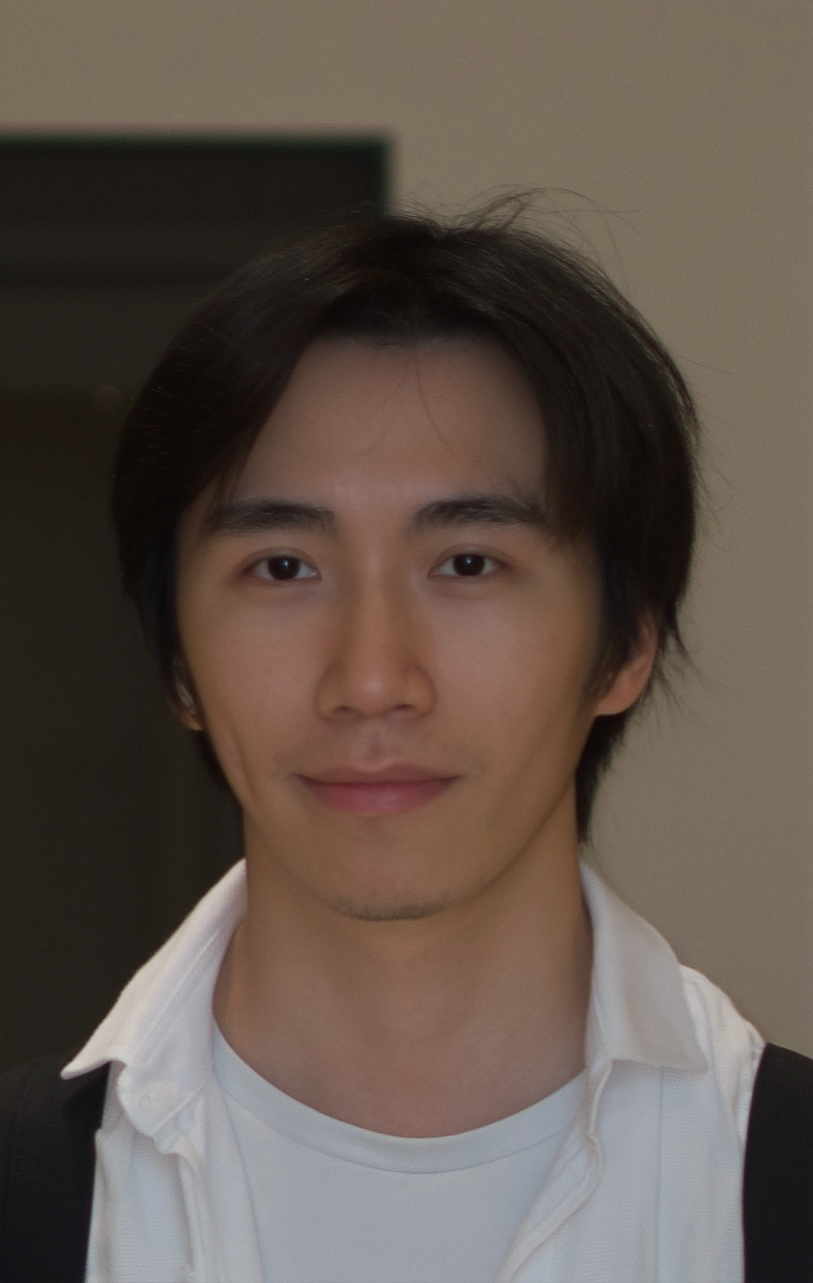
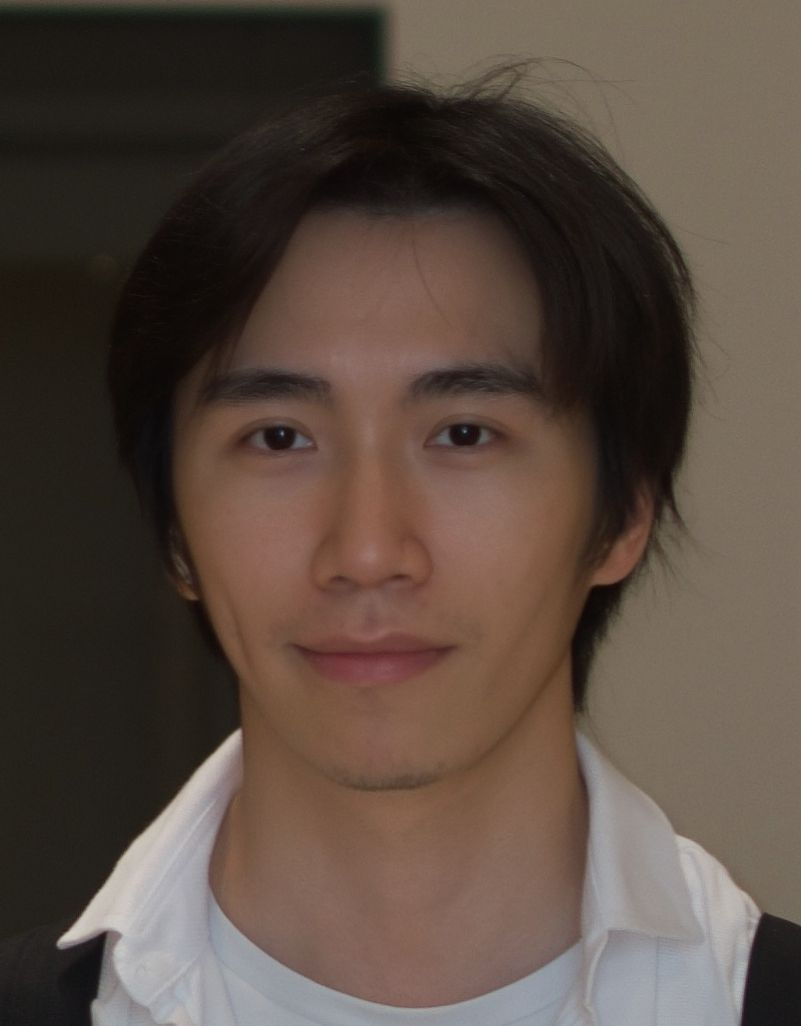
initial commit

diff --git a/index_new.html b/index_new.html
@@ -5,6 +5,7 @@
   <meta name="author" content="Jinhui Yi">
   <meta name="viewport" content="width=device-width, initial-scale=1">
   <link rel="stylesheet" type="text/css" href="stylesheet.css">
+  <style> a { color:#1a3d7c !important; } </style>
   <link rel="icon" type="image/jpeg" href="assets/images/avatar.jpg">
     <!-- <style>
     body, * {
@@ -25,9 +26,11 @@
               <p style="text-align:center">
                 <name>Jinhui Yi</name>
               </p>
-			<p>I am a PhD candidate in the Computer Vision Group at the University of Bonn, supervised by <a href="https://pages.iai.uni-bonn.de/gall_juergen/">Prof. Dr. Juergen Gall</a>. My research explores multimodal video understanding, long-term action anticipation, unsupervised domain adaptation, and applications of computer vision to plant phenotyping.
+			<p>
+			  I am a PhD candidate in the Computer Vision Group at the University of Bonn, supervised by <a href="https://pages.iai.uni-bonn.de/gall_juergen/">Prof. Dr. Juergen Gall</a>. My research explores multimodal video understanding, long-term action anticipation, unsupervised domain adaptation, and applications of computer vision to plant phenotyping.
 			</p>
-			<p>Previously, I completed my master's degree at the University of Hanover, supervised by <a href="https://www.tnt.uni-hannover.de/staff/rosenhahn/">Prof. Dr. Bodo Rosenhahn</a>.
+			<p>
+              Previously, I completed my master's degree at the University of Hanover, supervised by <a href="https://www.tnt.uni-hannover.de/staff/rosenhahn/">Prof. Dr. Bodo Rosenhahn</a>.
 			</p>
 			<div style="width: 100%; height: 1px; background: linear-gradient(to right, transparent, #ccc 20%, #ccc 80%, transparent); margin: 10px 0;"></div>
 
@@ -94,7 +97,7 @@
           </tr>
         </tbody></table>
         
-		<table id="publications" class="publications-table page-section" style="width:100%;border:0px;border-spacing:0 16px;border-collapse:separate;margin-right:auto;margin-left:auto;">
+		<table id="publications" class="publications-table page-section" style="width:100%;border:0px;border-spacing:0 32px;border-collapse:separate;margin-right:auto;margin-left:auto;">
           <heading style="text-decoration:none;">Publications</heading>
     <br>
    <p>* Equal contribution. </p>
@@ -164,8 +167,8 @@
               border-right: 1px solid rgba(0, 0, 0, 0.14);
               border-radius: 0 8px 8px 0;
             }
-            .publications-table tr[data-tags][style*="lightblue"] > td {
-              background: lightblue;
+            .publications-table tr[data-tags][style*="lightyellow"] > td {
+              background: lightyellow;
             }
 
             /* 自定义复制提示框样式 */
@@ -259,7 +262,7 @@
 
           <tr data-tags="anticipation">
             <td>
-              <a href="#"><papertitle style="color:#1a1a1a; font-weight:700; text-decoration:none;">Open-Vocabulary Long Term Action Anticipation</papertitle></a>
+              <a href="#"><papertitle style="color:#1a3d7c; font-weight:700; text-decoration:none;">Open-Vocabulary Long Term Action Anticipation</papertitle></a>
               <br>
               <span>S. T. Wasim*, <strong style="font-weight:800;">J. Yi*</strong>, H. Suleman, A. Javed, Y. Luo, M. Naseer, J. Gall</span>
               <br>
@@ -268,9 +271,9 @@
             </td>
           </tr>
 
-          <tr data-tags="video-language">
+          <tr data-tags="other">
             <td>
-              <a href="#"><papertitle style="color:#1a1a1a; font-weight:700; text-decoration:none;">RedSage: A Cybersecurity Generalist LLM</papertitle></a>
+              <a href="#"><papertitle style="color:#1a3d7c; font-weight:700; text-decoration:none;">RedSage: A Cybersecurity Generalist LLM</papertitle></a>
               <br>
               <span>N. Suryanto, M. Naseer, P. Li, S. T. Wasim, <strong style="font-weight:800;">J. Yi</strong>, J. Gall, P. Ceravolo, E. Damiani</span>
               <br>
@@ -281,7 +284,7 @@
 
           <tr data-tags="reid">
             <td>
-              <a href="#"><papertitle style="color:#1a1a1a; font-weight:700; text-decoration:none;">CoRe-Net: Consensus-based Selection and Reciprocal Reliability for Multi-modal Object Re-Identification</papertitle></a>
+              <a href="#"><papertitle style="color:#1a3d7c; font-weight:700; text-decoration:none;">CoRe-Net: Consensus-based Selection and Reciprocal Reliability for Multi-modal Object Re-Identification</papertitle></a>
               <br>
               <span>X. Ma, <strong style="font-weight:800;">J. Yi</strong>, J. Gall</span>
               <br>
@@ -291,7 +294,7 @@
 
           <tr data-tags="reid">
             <td>
-              <a href="#"><papertitle style="color:#1a1a1a; font-weight:700; text-decoration:none;">EPIC: Semantic Inverse Prompting and Evidential Corroboration for Multi-modal Object Re-Identification</papertitle></a>
+              <a href="#"><papertitle style="color:#1a3d7c; font-weight:700; text-decoration:none;">EPIC: Semantic Inverse Prompting and Evidential Corroboration for Multi-modal Object Re-Identification</papertitle></a>
               <br>
               <span>X. Ma, Y. Wang, <strong style="font-weight:800;">J. Yi</strong>, J. Gall</span>
               <br>
@@ -301,7 +304,7 @@
 
           <tr data-tags="reid">
             <td>
-              <a href="#"><papertitle style="color:#1a1a1a; font-weight:700; text-decoration:none;">AdapDeFormer: Adaptive Deformable Attention Aggregation with Hierarchical Query Learning for Multi-modal Object Re-Identification</papertitle></a>
+              <a href="#"><papertitle style="color:#1a3d7c; font-weight:700; text-decoration:none;">AdapDeFormer: Adaptive Deformable Attention Aggregation with Hierarchical Query Learning for Multi-modal Object Re-Identification</papertitle></a>
               <br>
               <span>X. Ma, Y. Wang, <strong style="font-weight:800;">J. Yi</strong>, J. Gall</span>
               <br>
@@ -311,7 +314,7 @@
 
           <tr data-tags="reid">
             <td>
-              <a href="#"><papertitle style="color:#1a1a1a; font-weight:700; text-decoration:none;">SynergyReID: Bridging Modalities via Semantic Prototypes and Consistency Priors for Multi-modal Object Re-Identification</papertitle></a>
+              <a href="#"><papertitle style="color:#1a3d7c; font-weight:700; text-decoration:none;">SynergyReID: Bridging Modalities via Semantic Prototypes and Consistency Priors for Multi-modal Object Re-Identification</papertitle></a>
               <br>
               <span>X. Ma, Y. Wang, <strong style="font-weight:800;">J. Yi</strong>, R. Zhang, P. Zhang, J. Gall</span>
               <br>
@@ -319,9 +322,9 @@
             </td>
           </tr>
 
-          <tr style="background-color: lightblue;" data-tags="video-language">
+          <tr style="background-color: lightyellow;" data-tags="video-language">
             <td>
-              <a href="https://arxiv.org/abs/2412.18609"><papertitle style="color:#1a1a1a; font-weight:700; text-decoration:none;">Video-Panda: Parameter-efficient Alignment for Encoder-free Video-Language Models</papertitle></a>
+              <a href="https://arxiv.org/abs/2412.18609"><papertitle style="color:#1a3d7c; font-weight:700; text-decoration:none;">Video-Panda: Parameter-efficient Alignment for Encoder-free Video-Language Models</papertitle></a>
               <br>
               <span><strong style="font-weight:800;">J. Yi*</strong>, S. T. Wasim*, Y. Luo*, M. Naseer, J. Gall</span>
               <br>
@@ -334,7 +337,7 @@
 
           <tr data-tags="reid">
             <td>
-              <a href="#"><papertitle style="color:#1a1a1a; font-weight:700; text-decoration:none;">PeT-KeyStAtion: Parameter-efficient Transformer with Keypoint-guided Spatial-Temporal Aggregation for Video-based Person Re-Identification</papertitle></a>
+              <a href="#"><papertitle style="color:#1a3d7c; font-weight:700; text-decoration:none;">PeT-KeyStAtion: Parameter-efficient Transformer with Keypoint-guided Spatial-Temporal Aggregation for Video-based Person Re-Identification</papertitle></a>
               <br>
               <span>X. Ma, <strong style="font-weight:800;">J. Yi</strong>, J. Gall</span>
               <br>
@@ -342,9 +345,9 @@
             </td>
           </tr>
 
-          <tr style="background-color: lightblue;" data-tags="phenotyping">
+          <tr style="background-color: lightyellow;" data-tags="phenotyping">
             <td>
-              <a href="https://arxiv.org/abs/2409.00903"><papertitle style="color:#1a1a1a; font-weight:700; text-decoration:none;">MV-Match: Multi-View Matching for Domain-Adaptive Identification of Plant Nutrient Deficiencies</papertitle></a>
+              <a href="https://arxiv.org/abs/2409.00903"><papertitle style="color:#1a3d7c; font-weight:700; text-decoration:none;">MV-Match: Multi-View Matching for Domain-Adaptive Identification of Plant Nutrient Deficiencies</papertitle></a>
               <br>
               <span><strong style="font-weight:800;">J. Yi*</strong>, Y. Luo*, M. Deichmann, G. Schaaf, J. Gall</span>
               <br>
@@ -355,9 +358,9 @@
             </td>
           </tr>
 
-          <tr data-tags="other">
+          <tr data-tags="video-language">
             <td>
-              <a href="#"><papertitle style="color:#1a1a1a; font-weight:700; text-decoration:none;">Rethinking Temporal Self-similarity for Repetitive Action Counting</papertitle></a>
+              <a href="#"><papertitle style="color:#1a3d7c; font-weight:700; text-decoration:none;">Rethinking Temporal Self-similarity for Repetitive Action Counting</papertitle></a>
               <br>
               <span>Y. Luo*, <strong style="font-weight:800;">J. Yi*</strong>, Y. A. Farha, M. Wolter, J. Gall</span>
               <br>
@@ -365,9 +368,9 @@
             </td>
           </tr>
 
-          <tr data-tags="other">
+          <tr data-tags="video-language">
             <td>
-              <a href="#"><papertitle style="color:#1a1a1a; font-weight:700; text-decoration:none;">SSGVS: Semantic Scene Graph-to-Video Synthesis</papertitle></a>
+              <a href="#"><papertitle style="color:#1a3d7c; font-weight:700; text-decoration:none;">SSGVS: Semantic Scene Graph-to-Video Synthesis</papertitle></a>
               <br>
               <span>Y. Cong, <strong style="font-weight:800;">J. Yi</strong>, B. Rosenhahn, M. Y. Yang</span>
               <br>
@@ -377,7 +380,7 @@
 
           <tr data-tags="anticipation">
             <td>
-              <a href="#"><papertitle style="color:#1a1a1a; font-weight:700; text-decoration:none;">Spatial-temporal Consistency Network for Low-latency Trajectory Forecasting</papertitle></a>
+              <a href="#"><papertitle style="color:#1a3d7c; font-weight:700; text-decoration:none;">Spatial-temporal Consistency Network for Low-latency Trajectory Forecasting</papertitle></a>
               <br>
               <span>S. Li, Y. Zhou, <strong style="font-weight:800;">J. Yi</strong>, J. Gall</span>
               <br>
@@ -387,13 +390,13 @@
 
         </tbody></table>
 
-        <table id="publications-journals" class="publications-table page-section" style="width:100%;border:0px;border-spacing:0 16px;border-collapse:separate;margin-right:auto;margin-left:auto;">
+        <table id="publications-journals" class="publications-table page-section" style="width:100%;border:0px;border-spacing:0 32px;border-collapse:separate;margin-right:auto;margin-left:auto;">
           <heading style="font-size: 0.9em; opacity: 0.8; text-decoration:none;">Journals</heading>
           <br>
           <tbody>
-          <tr style="background-color: lightblue;" data-tags="phenotyping">
+          <tr style="background-color: lightyellow;" data-tags="phenotyping">
             <td>
-              <a href="#"><papertitle style="color:#1a1a1a; font-weight:700; text-decoration:none;">Non-invasive Diagnosis of Nutrient Deficiencies in Winter Wheat and Winter Rye Using UAV-based RGB Images</papertitle></a>
+              <a href="#"><papertitle style="color:#1a3d7c; font-weight:700; text-decoration:none;">Non-invasive Diagnosis of Nutrient Deficiencies in Winter Wheat and Winter Rye Using UAV-based RGB Images</papertitle></a>
               <br>
               <span><strong style="font-weight:800;">J. Yi</strong>, G. Lopez, S. Hadir, J. Weyler, L. Klingbeil, M. Deichmann, J. Gall, S. J. Seidel</span>
               <br>
@@ -401,9 +404,9 @@
               <p>Collected 3,600+ drone RGB images of winter wheat and winter rye across a long-term fertilizer experiment and benchmarked eight CNN- and transformer-based models for non-invasive nutrient-deficiency diagnosis.</p>
             </td>
           </tr>
-          <tr data-tags="other">
+          <tr data-tags="video-language">
             <td>
-              <a href="#"><papertitle style="color:#1a1a1a; font-weight:700; text-decoration:none;">Pose Refinement Graph Convolutional Network for Skeleton-based Action Recognition</papertitle></a>
+              <a href="#"><papertitle style="color:#1a3d7c; font-weight:700; text-decoration:none;">Pose Refinement Graph Convolutional Network for Skeleton-based Action Recognition</papertitle></a>
               <br>
               <span>S. Li*, <strong style="font-weight:800;">J. Yi*</strong>, Y. A. Farha, J. Gall</span>
               <br>
@@ -412,7 +415,7 @@
           </tr>
           <tr data-tags="phenotyping">
             <td>
-              <a href="#"><papertitle style="color:#1a1a1a; font-weight:700; text-decoration:none;">Deep Learning for Non-invasive Diagnosis of Nutrient Deficiencies in Sugar Beet Using RGB Images</papertitle></a>
+              <a href="#"><papertitle style="color:#1a3d7c; font-weight:700; text-decoration:none;">Deep Learning for Non-invasive Diagnosis of Nutrient Deficiencies in Sugar Beet Using RGB Images</papertitle></a>
               <br>
               <span><strong style="font-weight:800;">J. Yi</strong>, L. Krusenbaum, P. Unger, H. Hüging, S. J. Seidel, G. Schaaf, J. Gall</span>
               <br>
